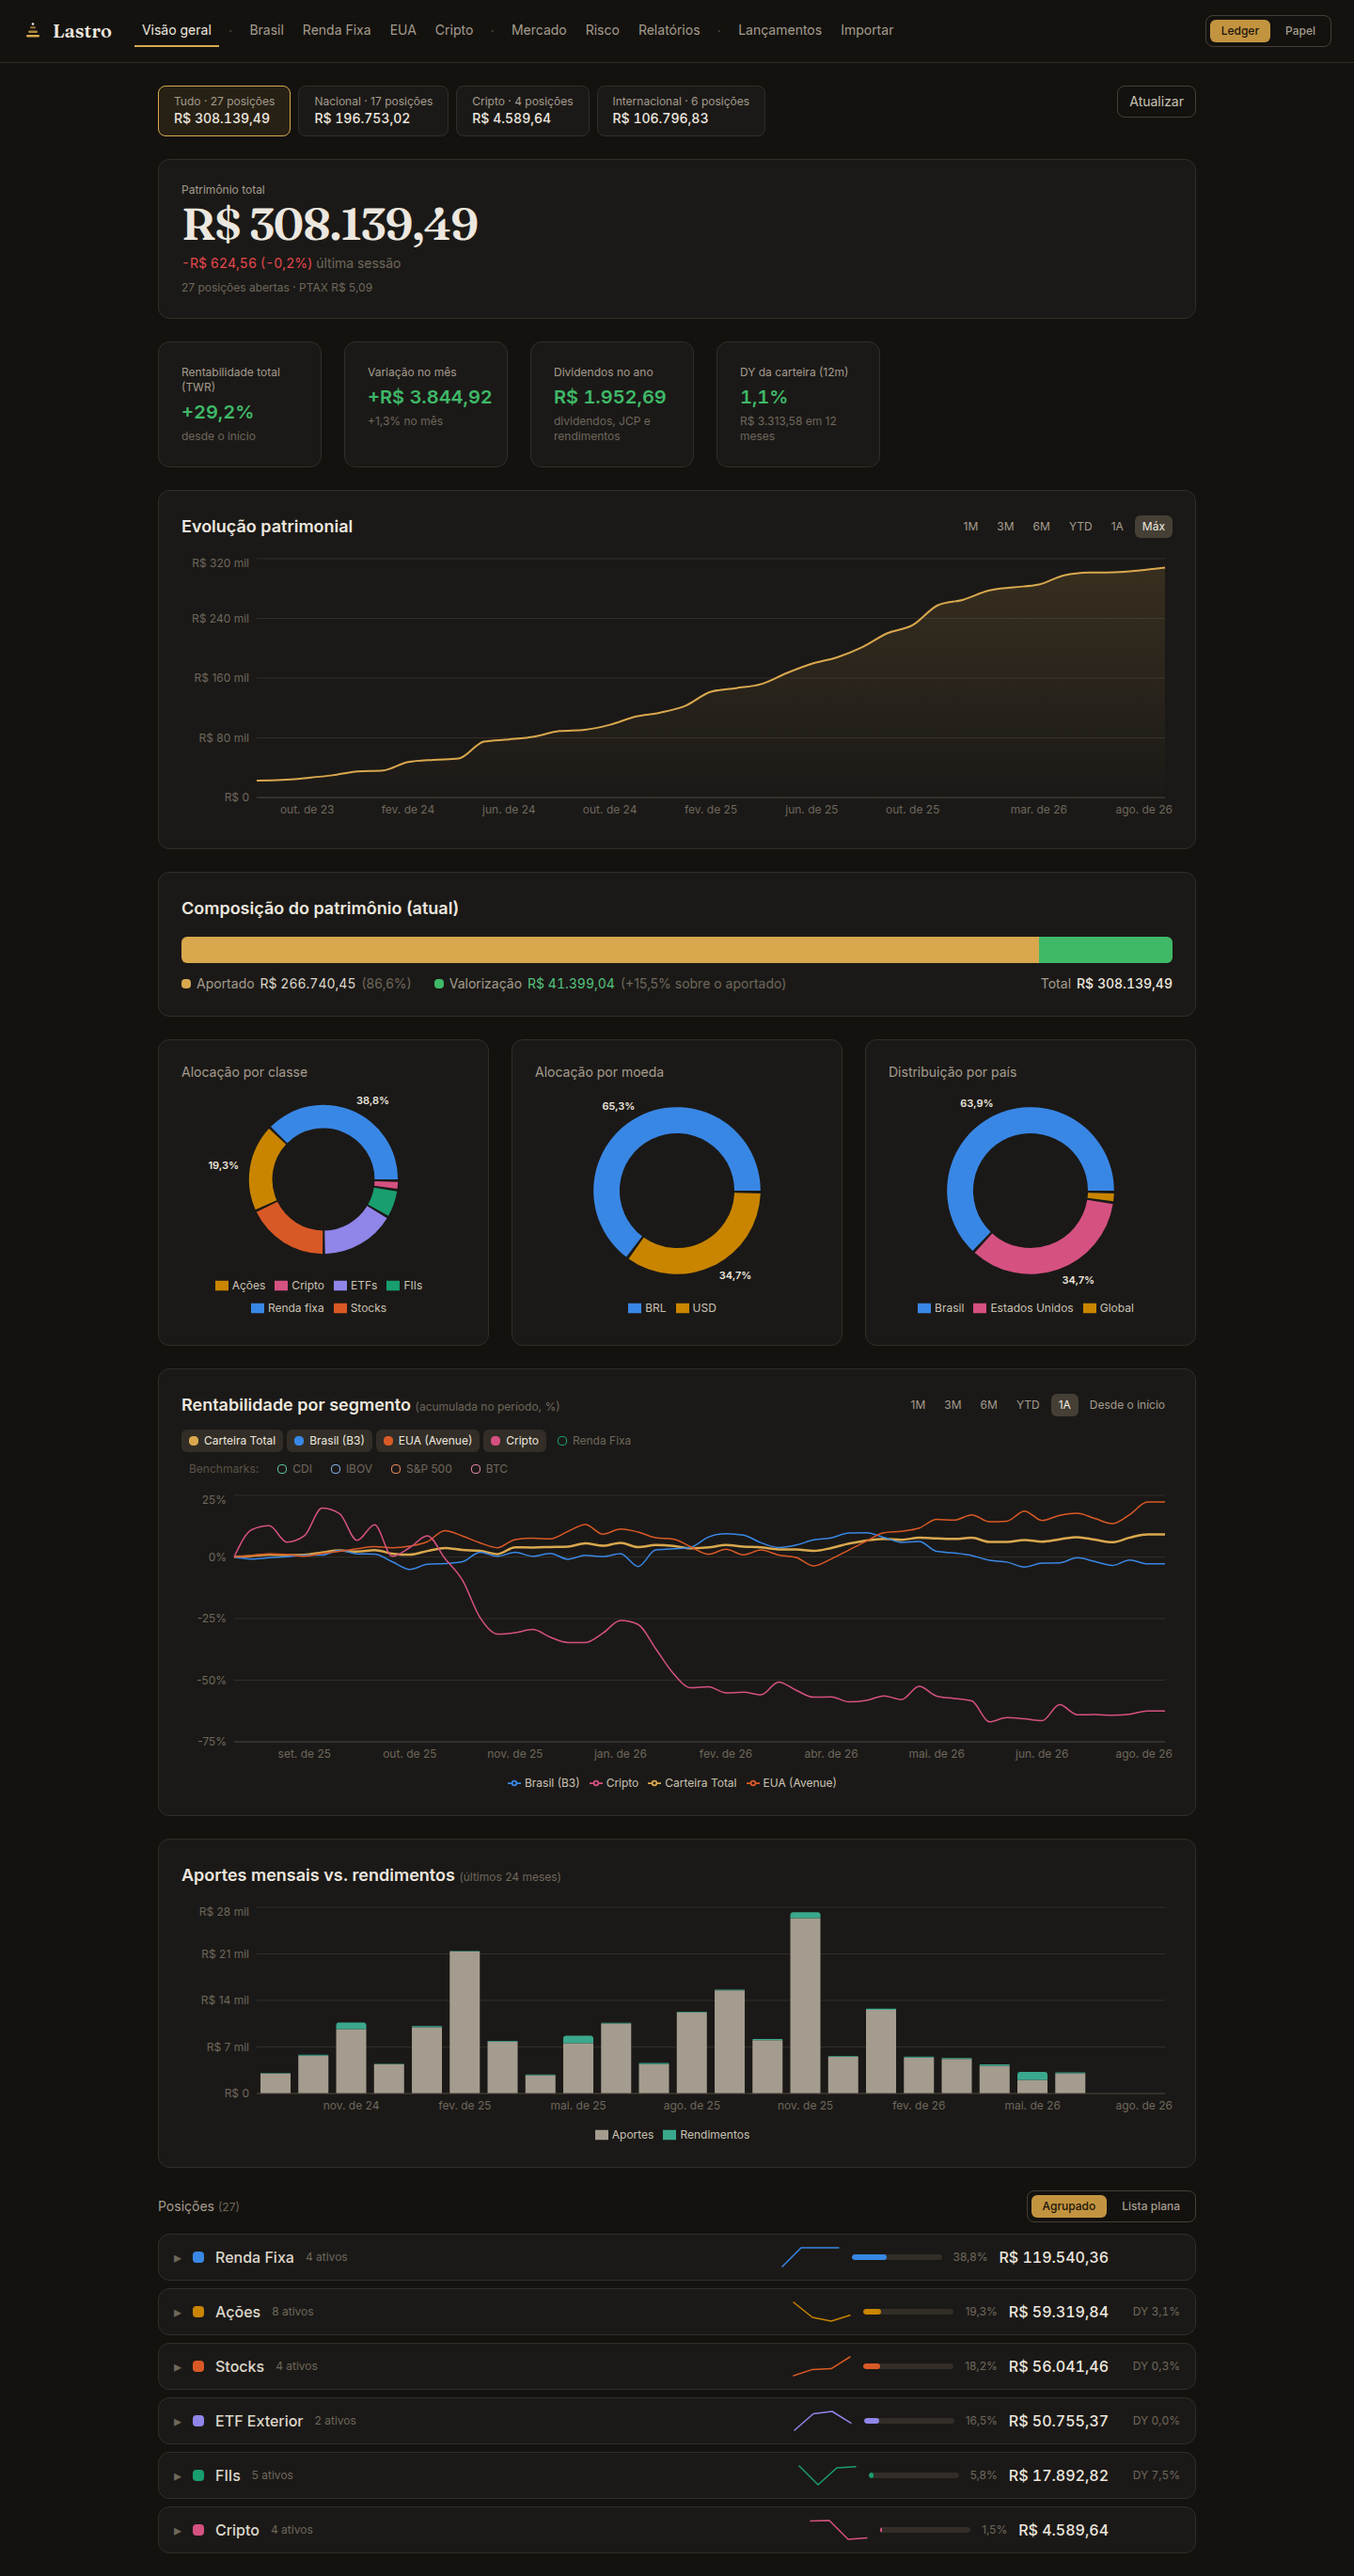
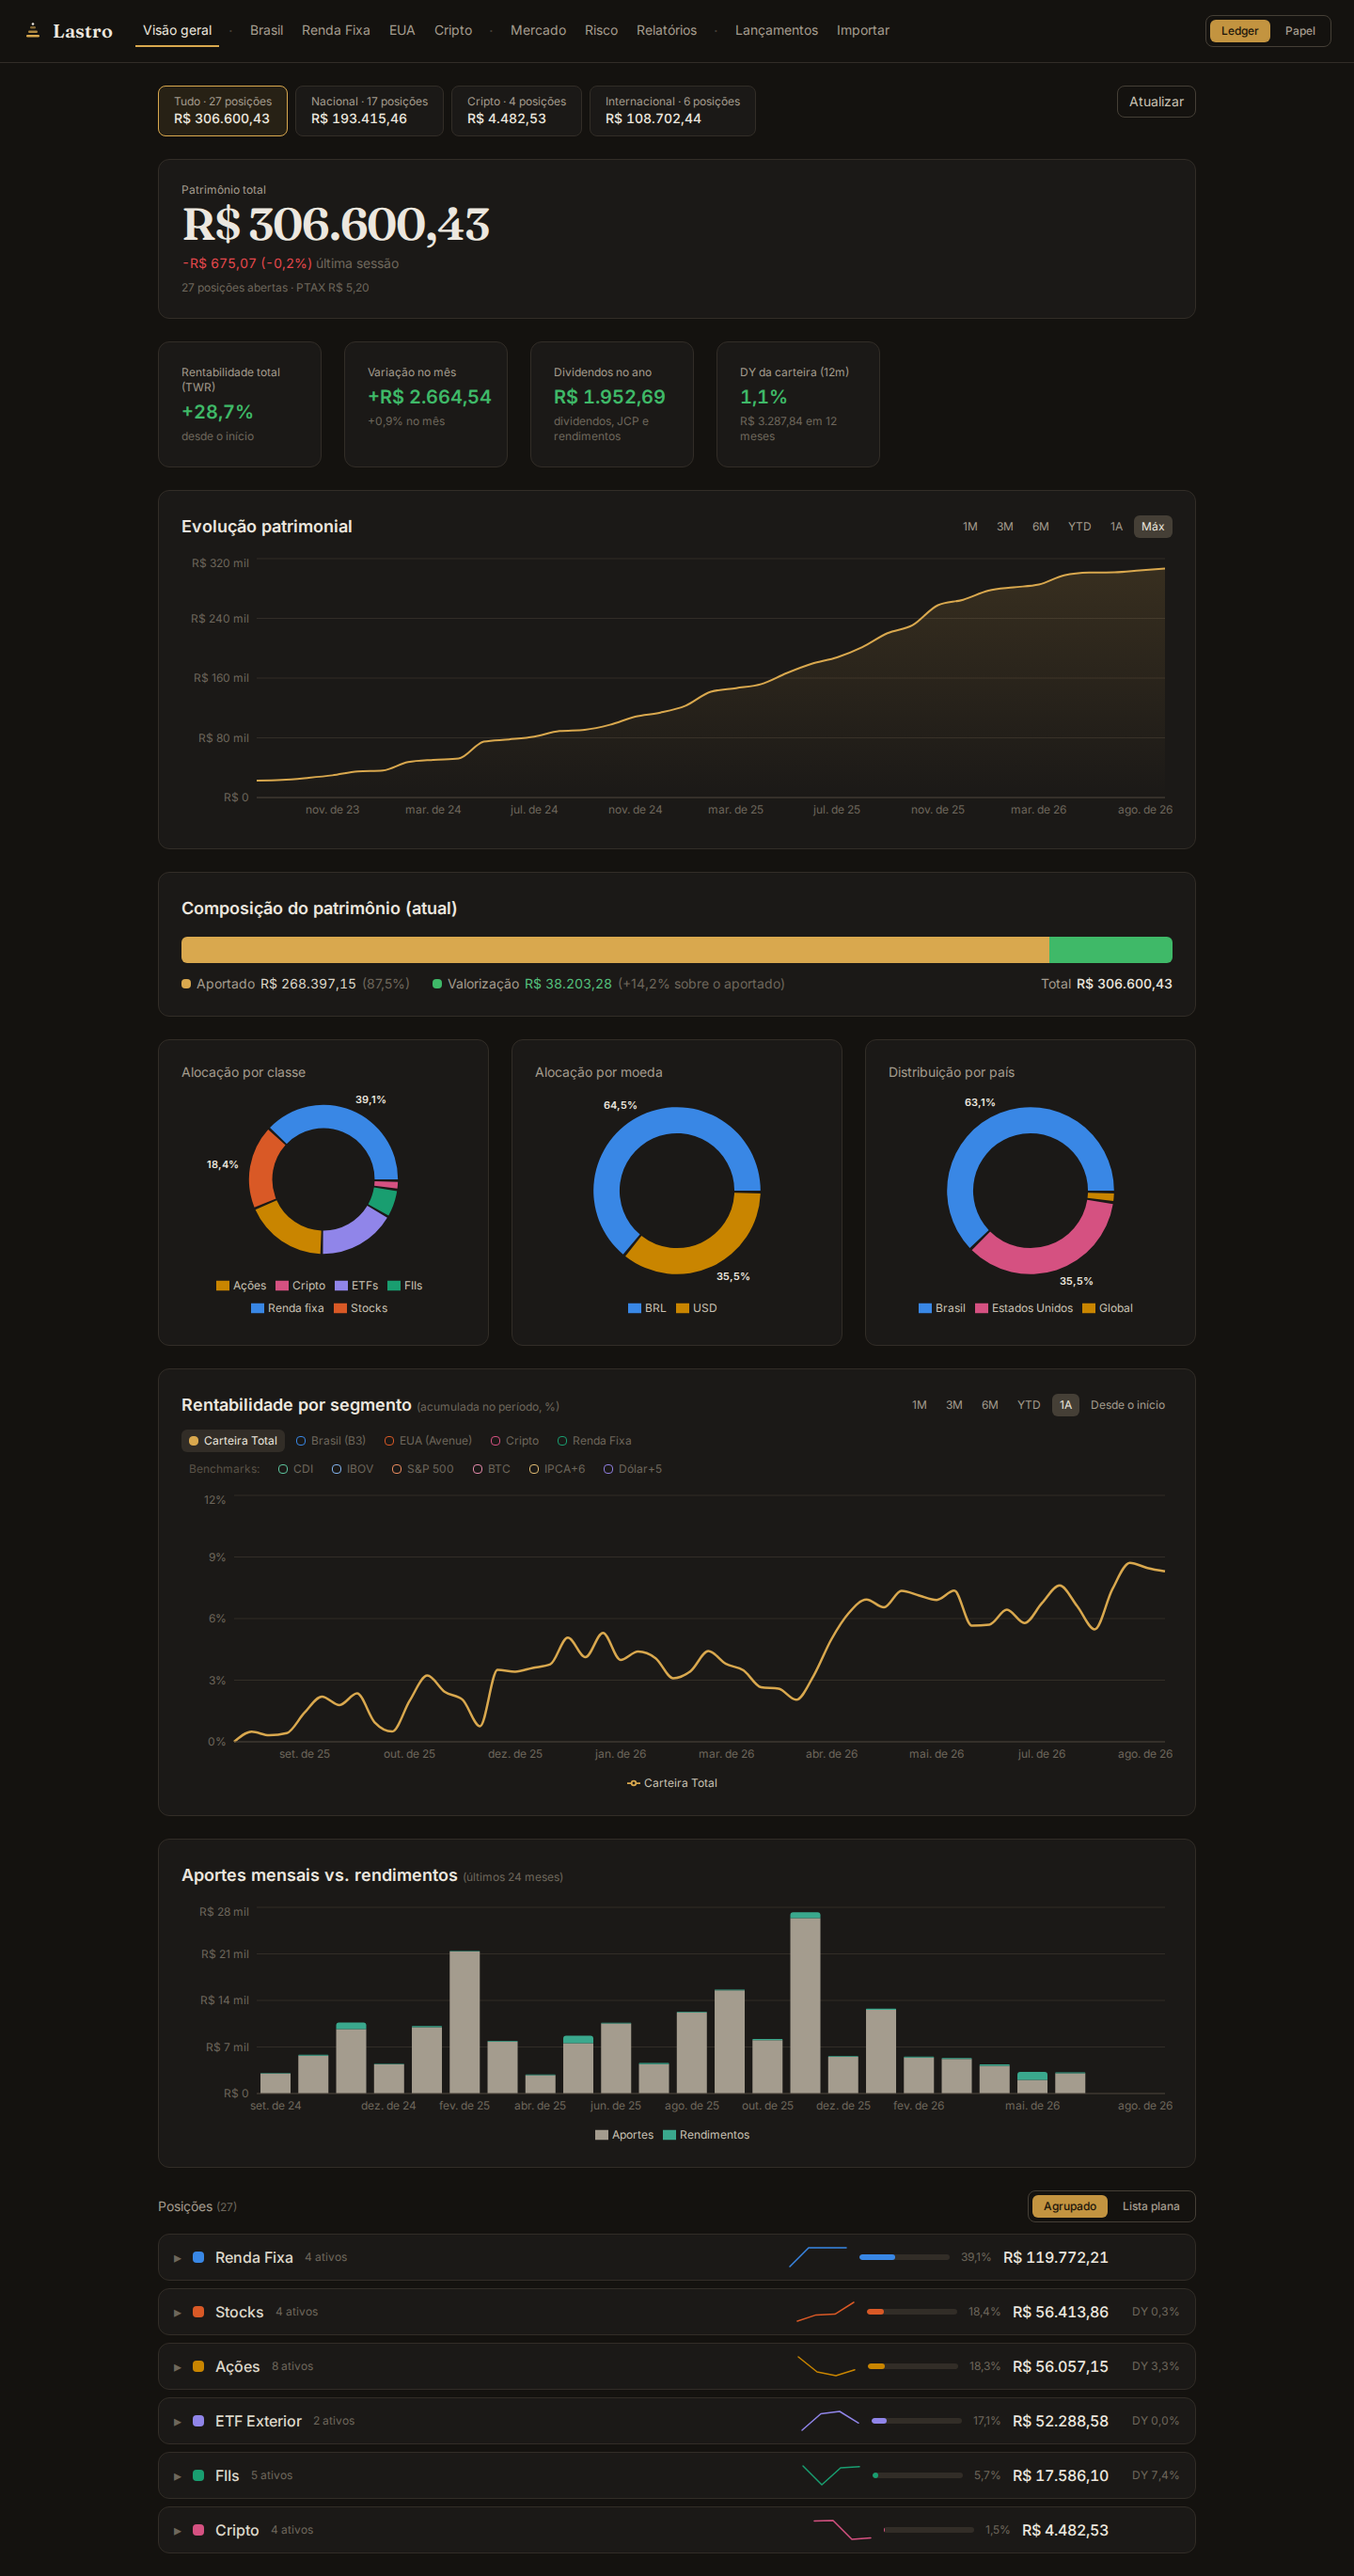
Recapture the demo screenshots, document the new risk blocks
All 10 shots retaken on the synthetic demo instance: the Risco page grew the
Risco × Retorno chart, the versus-benchmark block and the VaR horizon
selector, and every page with the returns chart now opens with Carteira Total
alone plus the two new benchmark toggles.

README picks up what the screenshots now show: the risk-return plane and the
capture/batting/information-ratio block, the two grids (calendar days ×365 for
the path of a return, trading days for a one-day loss) and why every risk
series rides the patrimony engine instead of raw closes.

One data repair on the way: the demo quote cache held three closes for XPML11
around 100x too low (R$ 1,068 against ~R$ 110 on 2026-01-14/15/16, straight
from yfinance, which still serves them). The -99% / +10.198% pair they
fabricate made that ticker read 10.184,51% annual volatility and pushed the
whole FII basket to 586,42%, squashing every other point of the scatter into
the left margin. Deleted the three rows (the engine carries the last close
forward): XPML11 falls to 10,00% vol and +10,10% return, Fundos imobiliários
to 6,39% and +10,44%, the diversification index goes 1,45 -> 2,10, and the
portfolio itself barely moves (vol 8,3343% -> 8,3165%, return 8,7818% ->
8,7902%). KNRI11, BTLG11 and every other series are byte-identical; the
transactions and monthly_snapshots tables hash the same before and after.

diff --git a/README.md b/README.md
@@ -9,9 +9,9 @@ Aplicação web **pessoal, single-user** que consolida investimentos de três fo
 B3 (extrato de Movimentação), Avenue (extrato CSV) e Binance (exports de trade/order
 history) — em um dashboard único: patrimônio consolidado em BRL, seções EUA e cripto
 em USD nativo, renda (dividendos/JCP/rendimentos), dividend yield 12m por posição e
-da carteira, TWR contra benchmarks (CDI, IBOV, S&P 500, BTC), uma seção de risco
-completa (volatilidade, VaR/CVaR, drawdown, betas, concentração e correlação), CAPM e
-relatório mensal.
+da carteira, TWR contra benchmarks (CDI, IBOV, S&P 500, BTC, IPCA+6 e Dólar+5), uma
+seção de risco completa (volatilidade, VaR/CVaR, drawdown, betas, concentração,
+correlação e um plano risco × retorno), CAPM e relatório mensal.
 
 A ideia central é **automatizar a vida do investidor**: você arrasta o extrato
 exportado da corretora/exchange e a plataforma calcula tudo sozinha — posições, preço
@@ -44,8 +44,12 @@ ajustes e correções auditáveis.
 | ![Renda Fixa](docs/screenshots/renda-fixa.png) | ![Lançamentos](docs/screenshots/lancamentos.png) |
 
 **Risco — terminal de risco da carteira consolidada:** volatilidade, Sharpe/Sortino,
-drawdown (magnitude e duração), VaR/CVaR, betas, concentração, contribuição de risco por
-setor e cenários de estresse.
+drawdown (magnitude e duração), VaR/CVaR com seletor de horizonte (1 dia, 1 semana,
+1 mês), betas, concentração, contribuição de risco por setor e cenários de estresse.
+Um gráfico **Risco × Retorno** põe ativos, setores, segmentos, a carteira e os
+benchmarks no mesmo plano volatilidade × retorno, e o bloco **contra o benchmark**
+reporta captura de alta/baixa, batting average, retorno ativo, tracking error e
+information ratio contra IBOV e S&P 500.
 
 ![Risco](docs/screenshots/risco.png)
 
@@ -167,6 +171,21 @@ faz: Tesouro Direto é marcado a mercado e participa normalmente de volatilidade
 correlação e contribuição de risco; renda fixa privada fica a custo e **é excluída de todo
 cálculo baseado em preço** — volatilidade ou VaR sobre um papel que não é remarcado seria
 risco fabricado. Ela ganha uma lente própria: concentração por indexador e por emissor.
+
+**Duas grades, cada uma com sua razão.** O que mede o *caminho* do retorno
+(volatilidade, Sharpe, Sortino, tracking error, vol móvel) roda em **dias corridos,
+anualizado por ×365**: descartar fim de semana perderia retorno real de cripto, que
+negocia sete dias por semana. Já a distribuição de perda de **um dia** (VaR, CVaR, VaR
+paramétrico, assimetria, curtose) roda em **dias de negociação**, porque "um dia" em
+relatório de risco é pregão por convenção — misturar sábados parados dilui o quantil e
+fabrica cauda gorda. As duas contagens aparecem lado a lado no cabeçalho da seção.
+
+**Toda série de risco sai do motor de patrimônio, nunca de preço bruto.** Ler o
+fechamento direto erraria três coisas ao mesmo tempo: ignoraria proventos (um FII pode
+mudar de sinal na janela de 1 ano), misturaria BRL e USD no mesmo eixo, e leria um
+desdobramento como queda de 80%. As cestas de setor e os pontos do gráfico risco ×
+retorno consomem a série de TWR diário que o próprio motor calcula por ticker — em BRL,
+com proventos como fluxo e desdobramento aplicado à quantidade.
 
 **Correlação em três recortes.** Matriz de Pearson dos retornos diários entre ativos
 (com filtro manual), entre setores/sub-setores (cestas ponderadas por valor) e um
